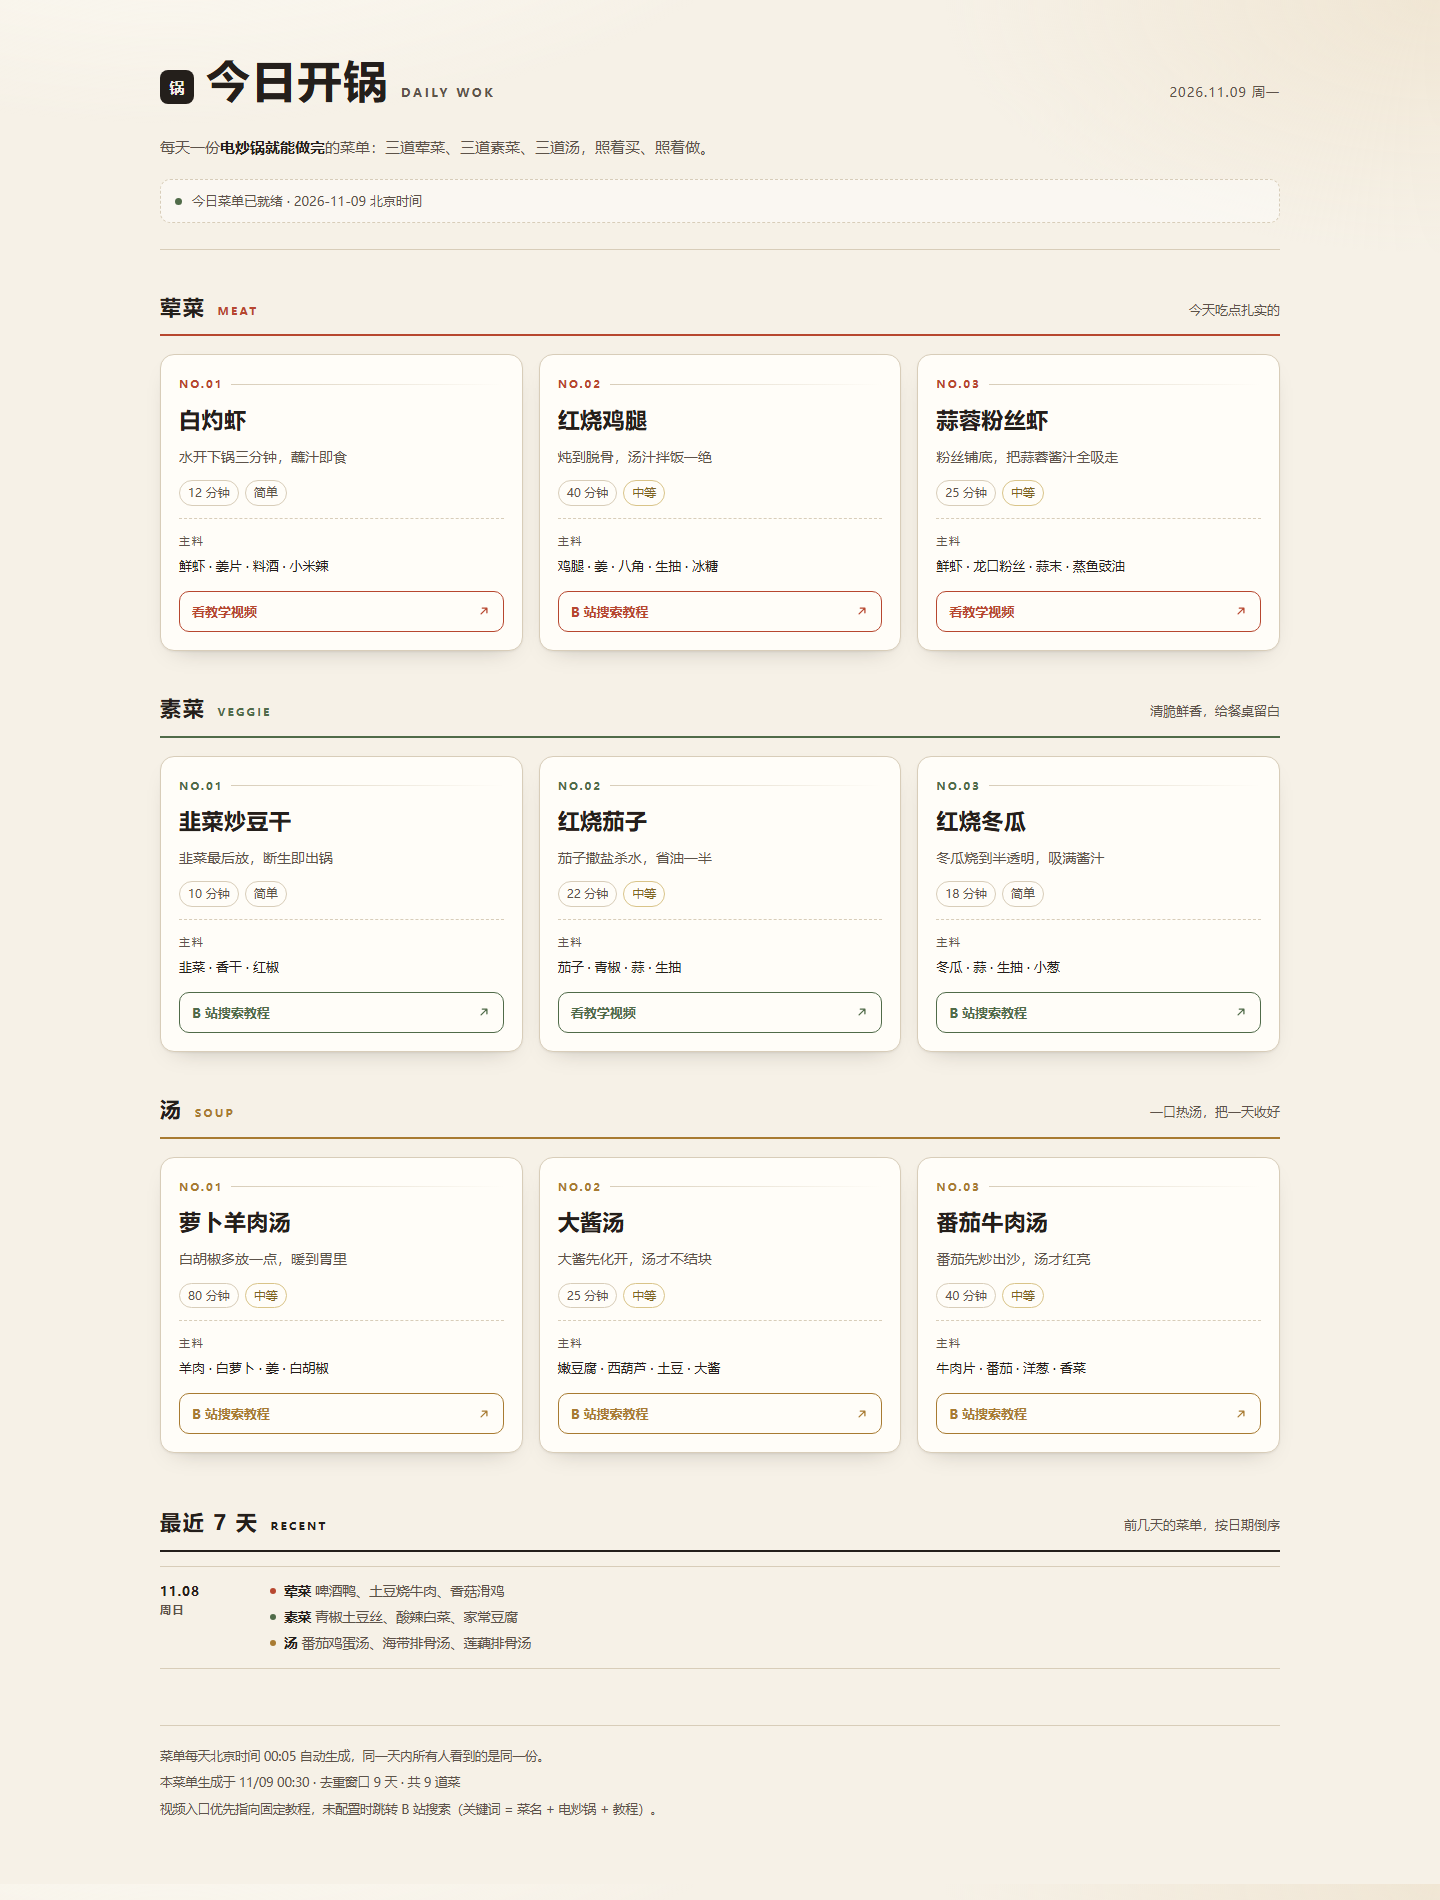
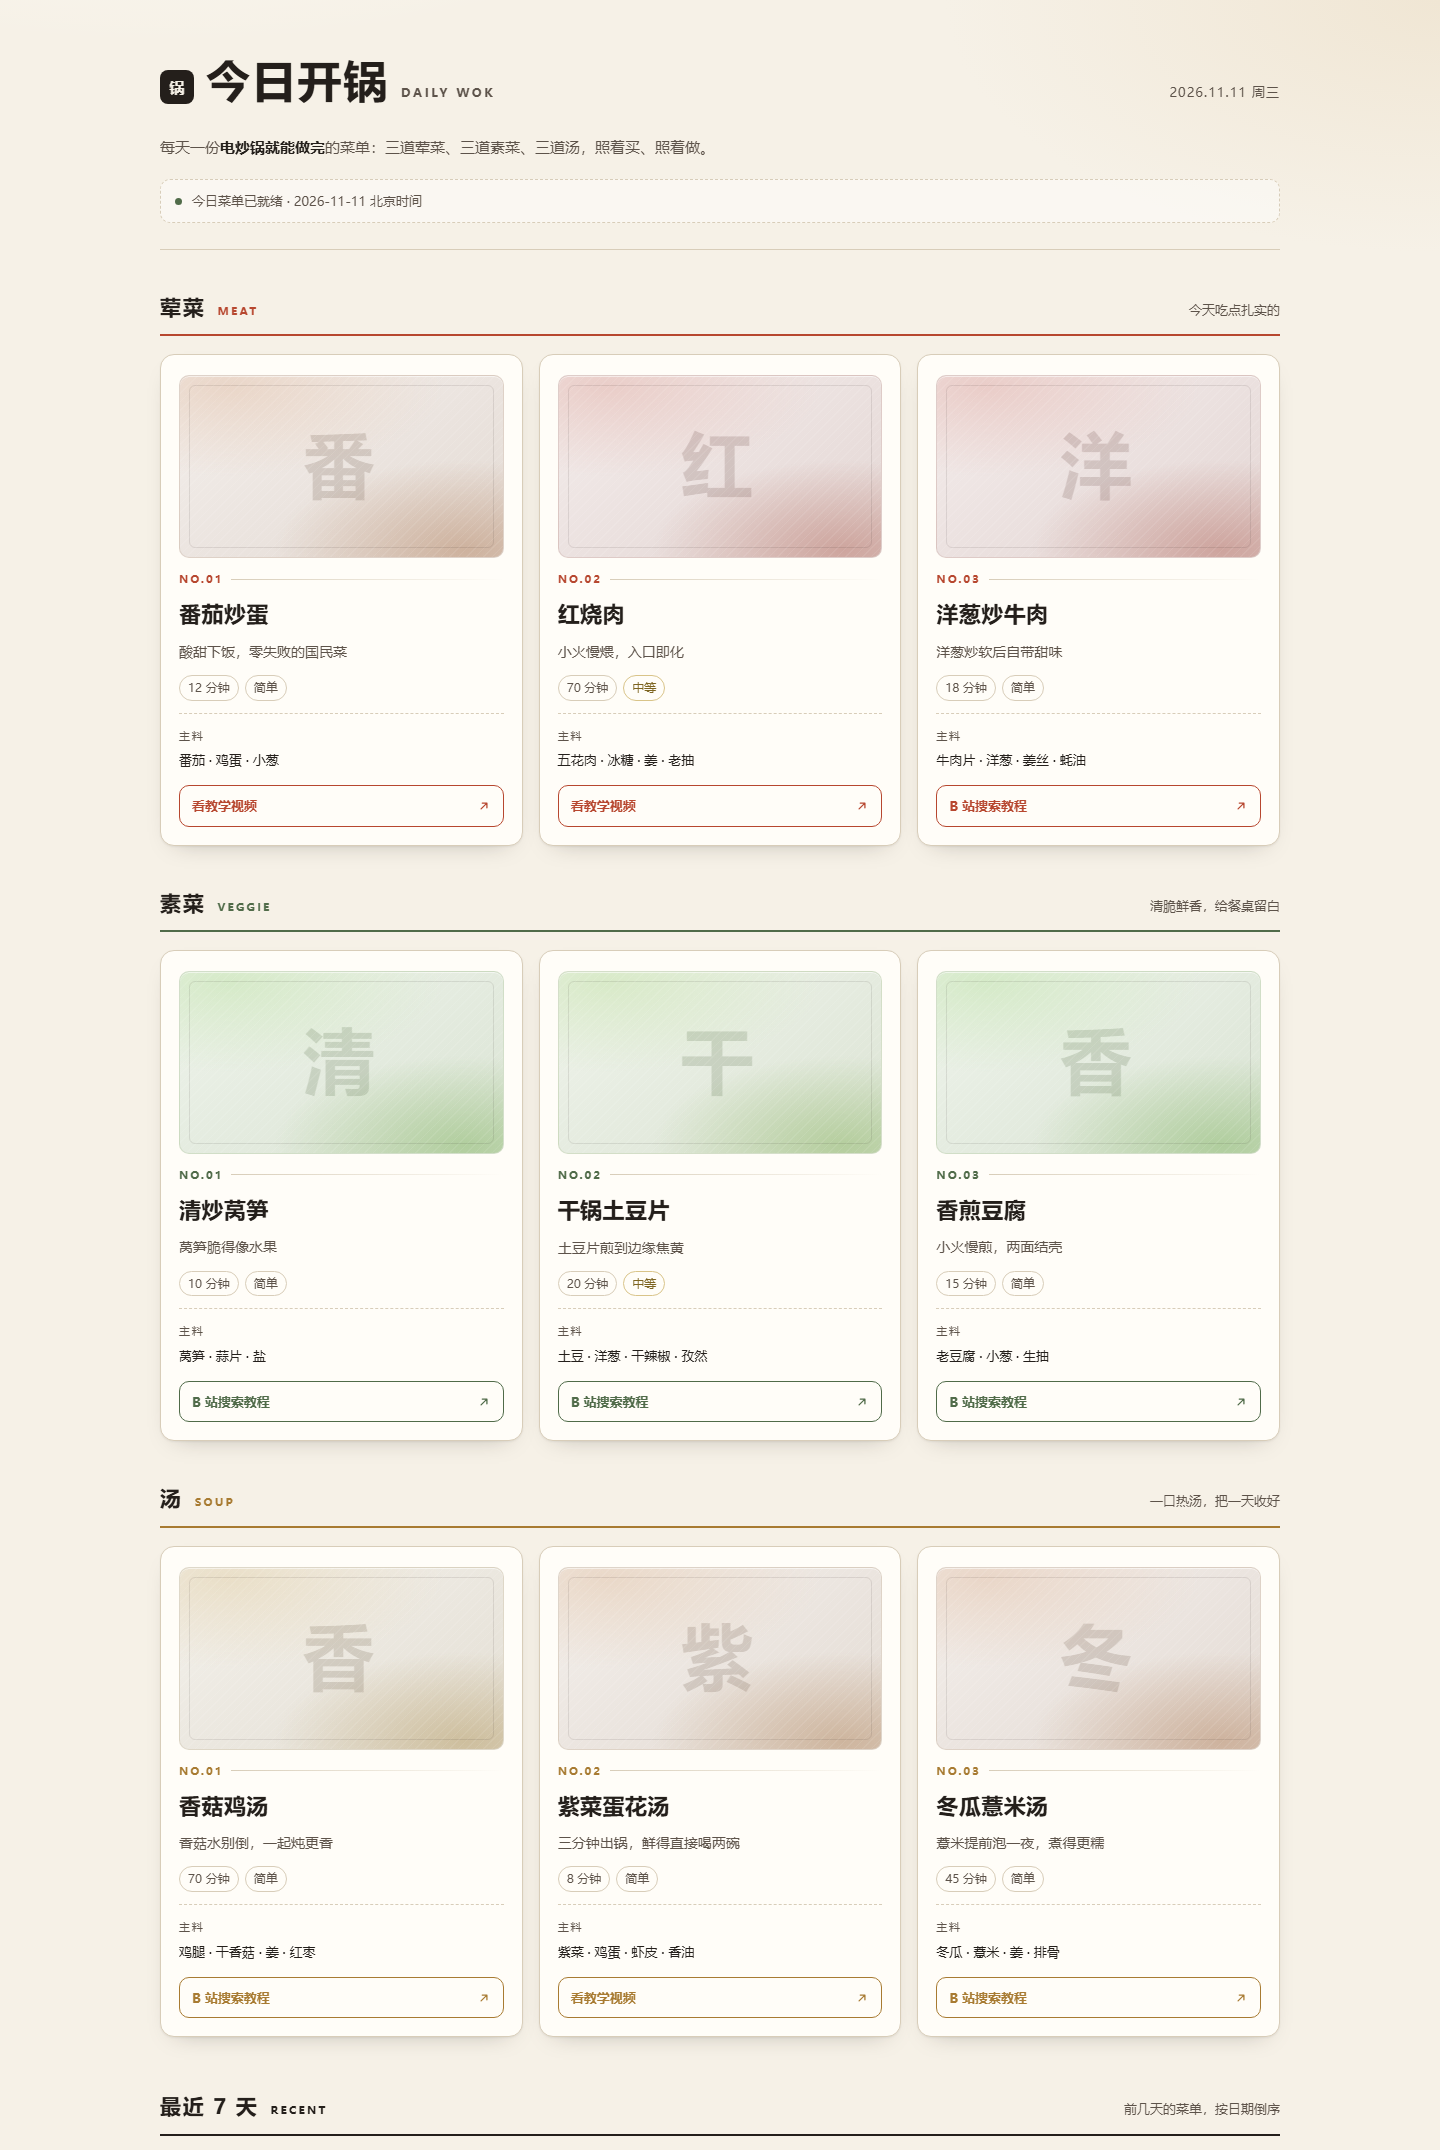
feat: 菜卡新增 16:9 图区（CSS 渐变插画，可按 id 换成真图）

Changed region(s): [[0.0938, 0.0311, 0.9062, 0.9937], [0.7812, 0.9626, 0.875, 0.9937], [0.8125, 0.0311, 0.875, 0.0621]]

diff --git a/public/index.html b/public/index.html
@@ -221,6 +221,14 @@
     display: block;
   }
 
+  .card-media .media-frame {
+    position: absolute;
+    inset: 9px;
+    border: 1px solid rgba(36, 31, 27, .10);
+    border-radius: 6px;
+    pointer-events: none;
+  }
+
   article.card:hover .card-media::before { transform: translateY(-3px) scale(1.04); }
 
   /* ---------- 卡片 ---------- */
@@ -544,7 +552,7 @@
   function cardHtml(dish, index, cat) {
     const tags = dish.ingredients.map((item) => `<span>${escapeHtml(item)}</span>`).join(' · ');
     const glyph = (dish.name || '菜').slice(0, 1);
-    const media = `<div class="card-media" style="--h:${hueOf(dish.id, cat && cat.key)}" data-glyph="${escapeHtml(glyph)}">${
+    const media = `<div class="card-media" style="--h:${hueOf(dish.id, cat && cat.key)}" data-glyph="${escapeHtml(glyph)}"><span class="media-frame"></span>${
       dish.imageUrl
         ? `<img src="${escapeHtml(dish.imageUrl)}" alt="${escapeHtml(dish.name)}" loading="lazy" decoding="async" onerror="this.remove()" />`
         : ''

diff --git a/README.md b/README.md
@@ -48,7 +48,8 @@ daily-wok/
 ├─ data/
 │  ├─ categories.json      # 三个分类的标题、英文名、说明、主题色
 │  ├─ dishes.psv           # 菜品库：1 行表头 + 90 行菜品，8 字段
-│  └─ history.json         # 推荐历史（生成脚本自动维护）
+│  ├─ history.json         # 推荐历史（生成脚本自动维护）
+│  └─ images.json          # 可选：菜品配图 { "菜品id": "图片URL" }
 ├─ scripts/
 │  ├─ generate-daily.mjs   # 每日菜单生成器
 │  └─ preview.mjs          # 本地静态预览服务器
@@ -60,6 +61,19 @@ daily-wok/
 ├─ setup-project.ps1       # 脚手架与自检脚本
 └─ package.json
 ```
+
+### 卡片图区
+
+每张菜卡顶部有一个 **16:9**、圆角、带细内框的图区：
+
+- 默认是 **CSS 生成的渐变插画**（按分类取色 + 菜品 id 微调色相，中间压一个菜名首字的淡色大字），不依赖网络、不会出现破图；
+- 想换成真实照片，在 `data/images.json` 里按菜品 id 配 URL 即可，例如：
+
+  ```json
+  { "m13": "https://example.com/hongshaorou.jpg", "s01": "https://example.com/fanqietang.jpg" }
+  ```
+
+  配了图的菜自动渲染 `<img>`（`object-fit: cover`，加载失败会自动退回渐变），没配的继续用插画。
 
 ### `dishes.psv` 字段
 
@@ -124,6 +138,7 @@ npm run preview         # 打开 http://127.0.0.1:8000
 |---|---|
 | 加菜 | 在 `data/dishes.psv` 追加行，`id` 不要重复，分类数量尽量保持均衡 |
 | 换某道菜的视频 | 填上该行的 `videoUrl`，页面会自动改成「看教学视频」 |
+| 给某道菜配照片 | 在 `data/images.json` 加 `"菜品id": "图片URL"`，卡片 16:9 图区自动换成真图 |
 | 调整去重周期 | 改 `data/history.json` 的 `windowDays`（每类菜品数 ≥ 3 × windowDays 才够用） |
 | 换生成时间 | 改 `.github/workflows/daily-menu.yml` 里的 `cron`（UTC 时间） |
 | 重挑今天的菜 | 删掉 `data/history.json` 里当天的记录，再跑一次生成 |

diff --git a/PROJECT_HANDOVER.md b/PROJECT_HANDOVER.md
@@ -152,6 +152,14 @@ daily-wok/
 - **校验**：表头、字段数、id 重复、分类合法性、`minutes` 数字，任一不通过直接报错退出（Actions 会红）；
 - **补生成**：支持 `DAILY_WOK_DATE=2026-11-01` 环境变量指定日期（补跑漏掉的某天、或做测试）。
 
+### 2026-11-11 增量优化
+
+| 优化 | 实现 | 验收 |
+|---|---|---|
+| 卡片 16:9 图区 | 每张菜卡顶部新增 `aspect-ratio: 16/9` 图区，圆角 10px + 9px 细内框；默认用 CSS 渐变插画（分类基色 + 菜品 id 微调色相 + 菜名首字淡色大字 + 斜纹肌理） | 桌面/移动截图，比例与圆角正常、无破图 |
+| 真实照片替换 | 新增可选 `data/images.json`（`{ "菜品id": "图片URL" }`），生成器把它写进 `today.json` 的 `imageUrl`；页面有图则渲染 `<img object-fit:cover>`，加载失败自动回退渐变 | 用内联 SVG 实测：配图的菜变真图，其余保持插画 |
+| 图片来源取舍 | 不用 Unsplash 随机图：`source.unsplash.com` 已下线，`images.unsplash.com` 在国内网络不稳定，会拖慢首屏并出现破图 | — |
+
 ### 2026-11-09 增量优化（本轮）
 
 | 优化 | 实现 | 验收 |
